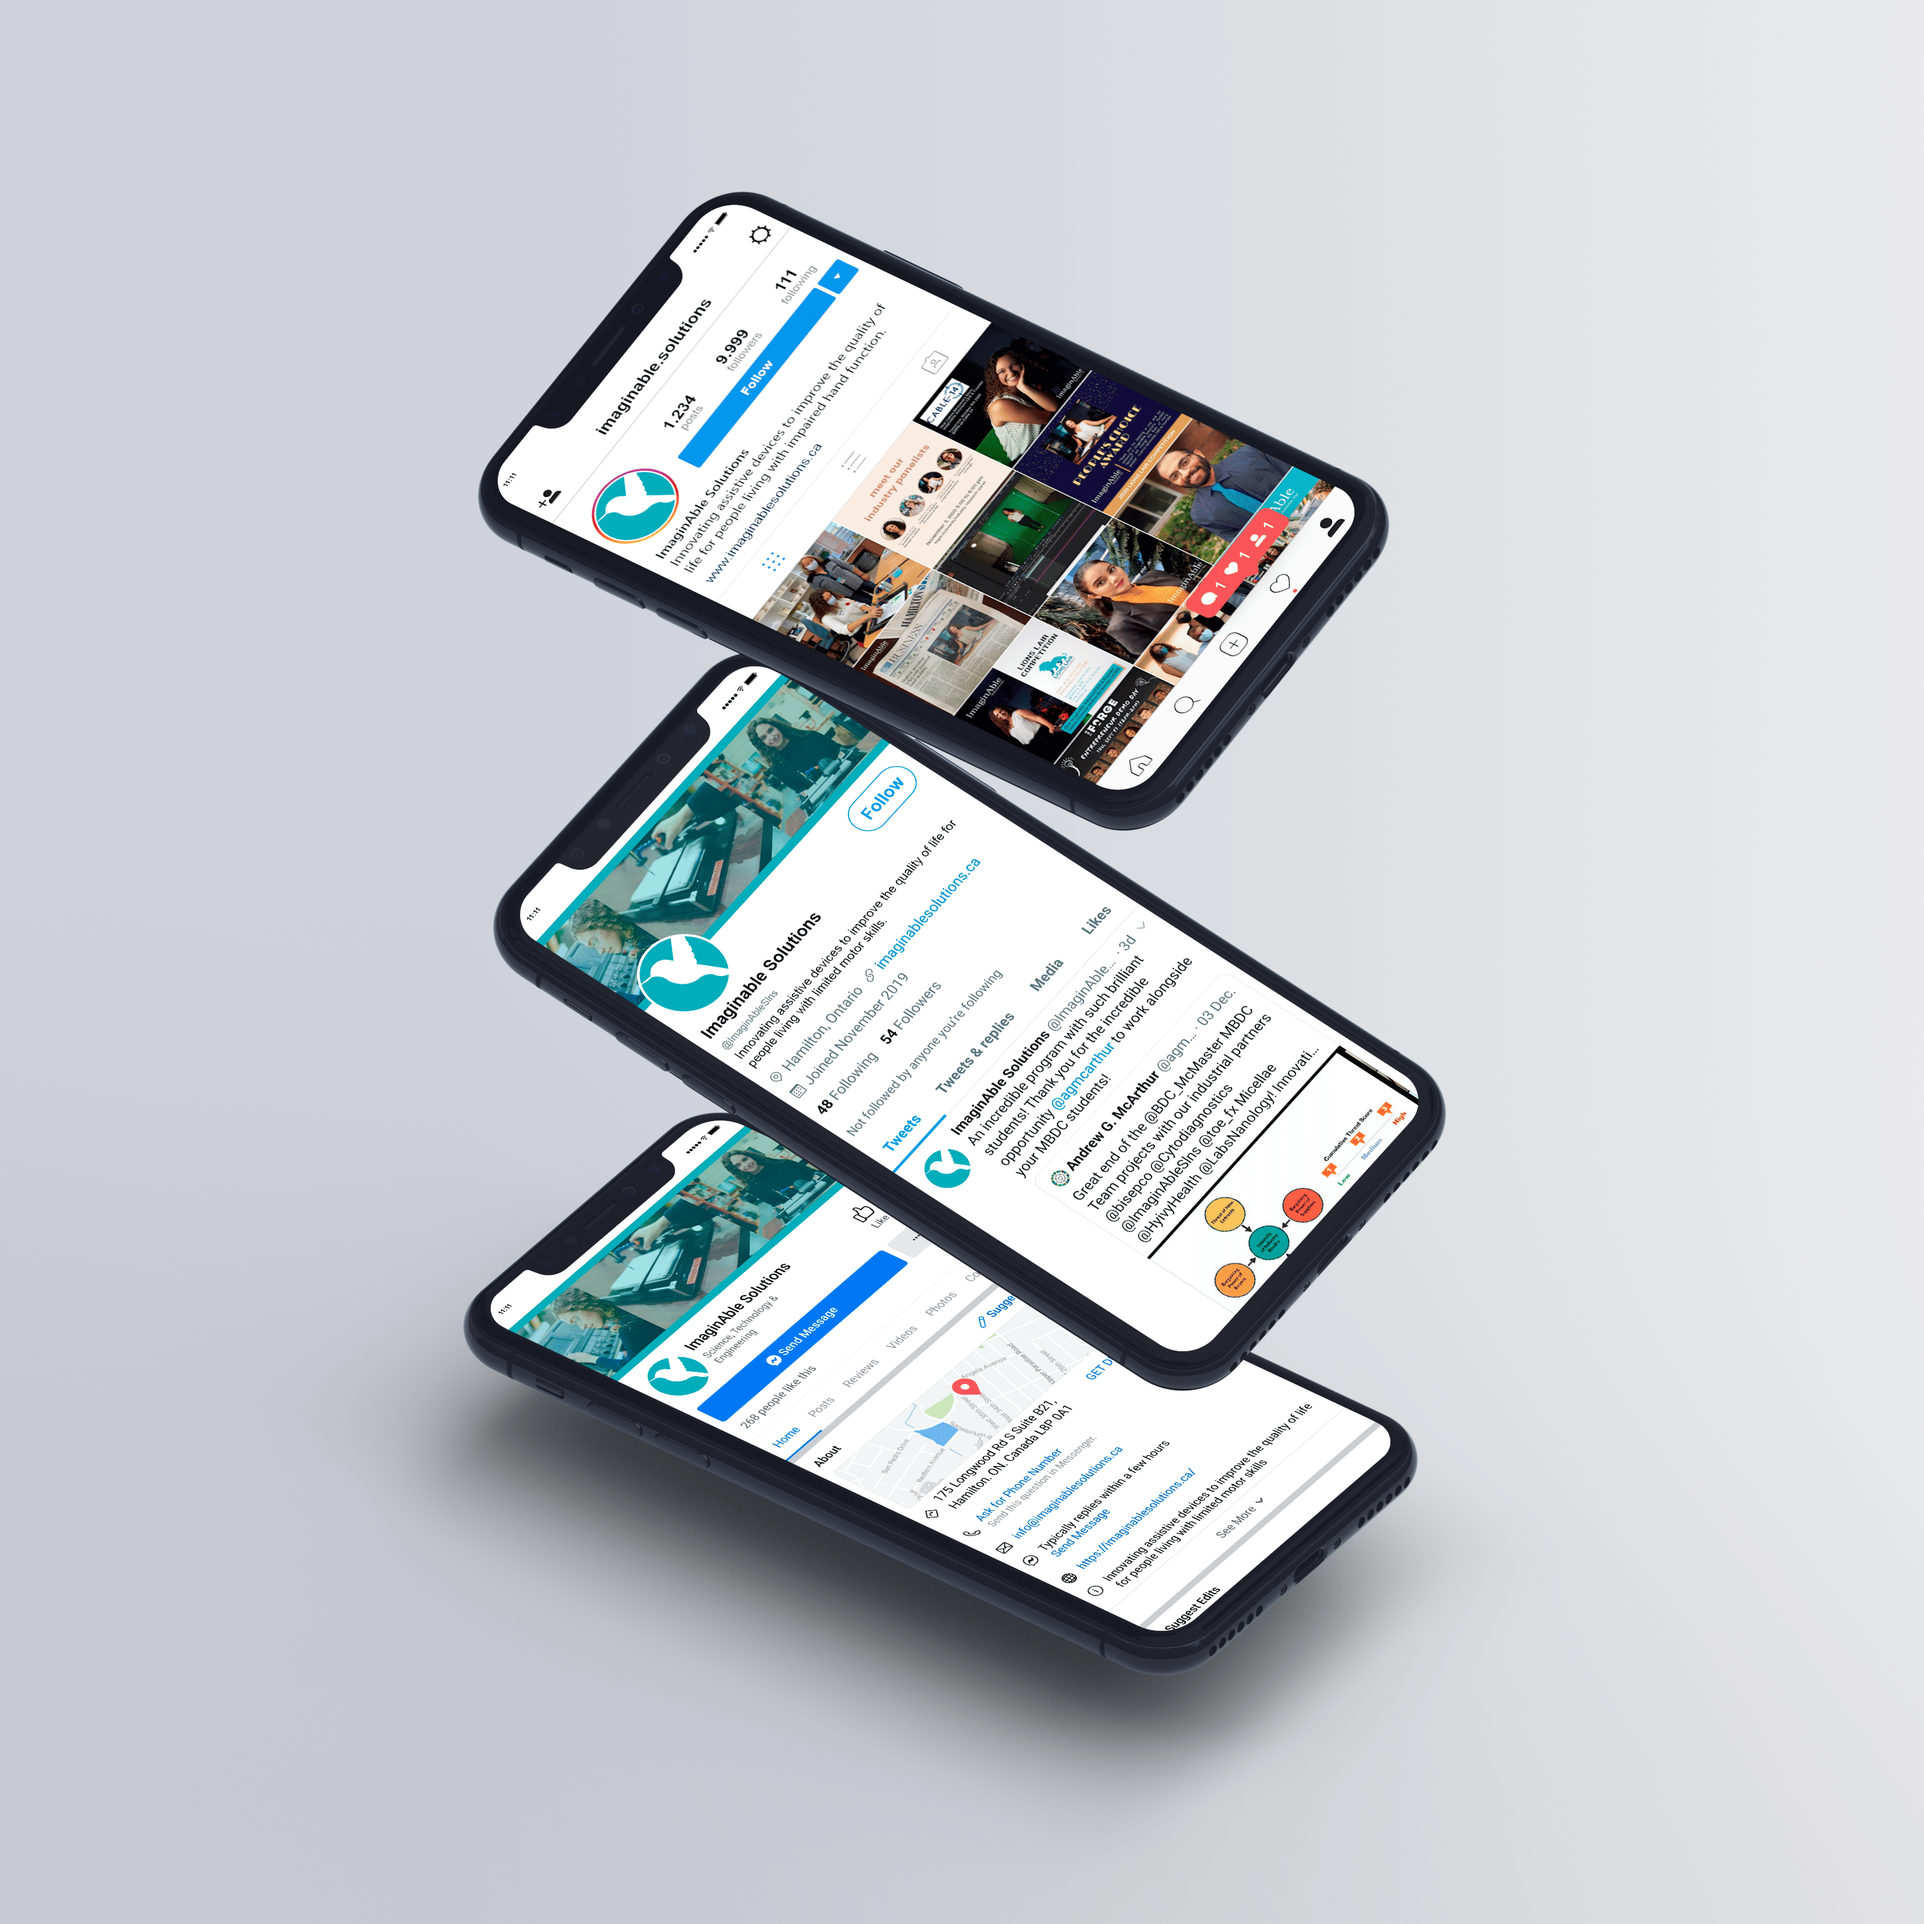
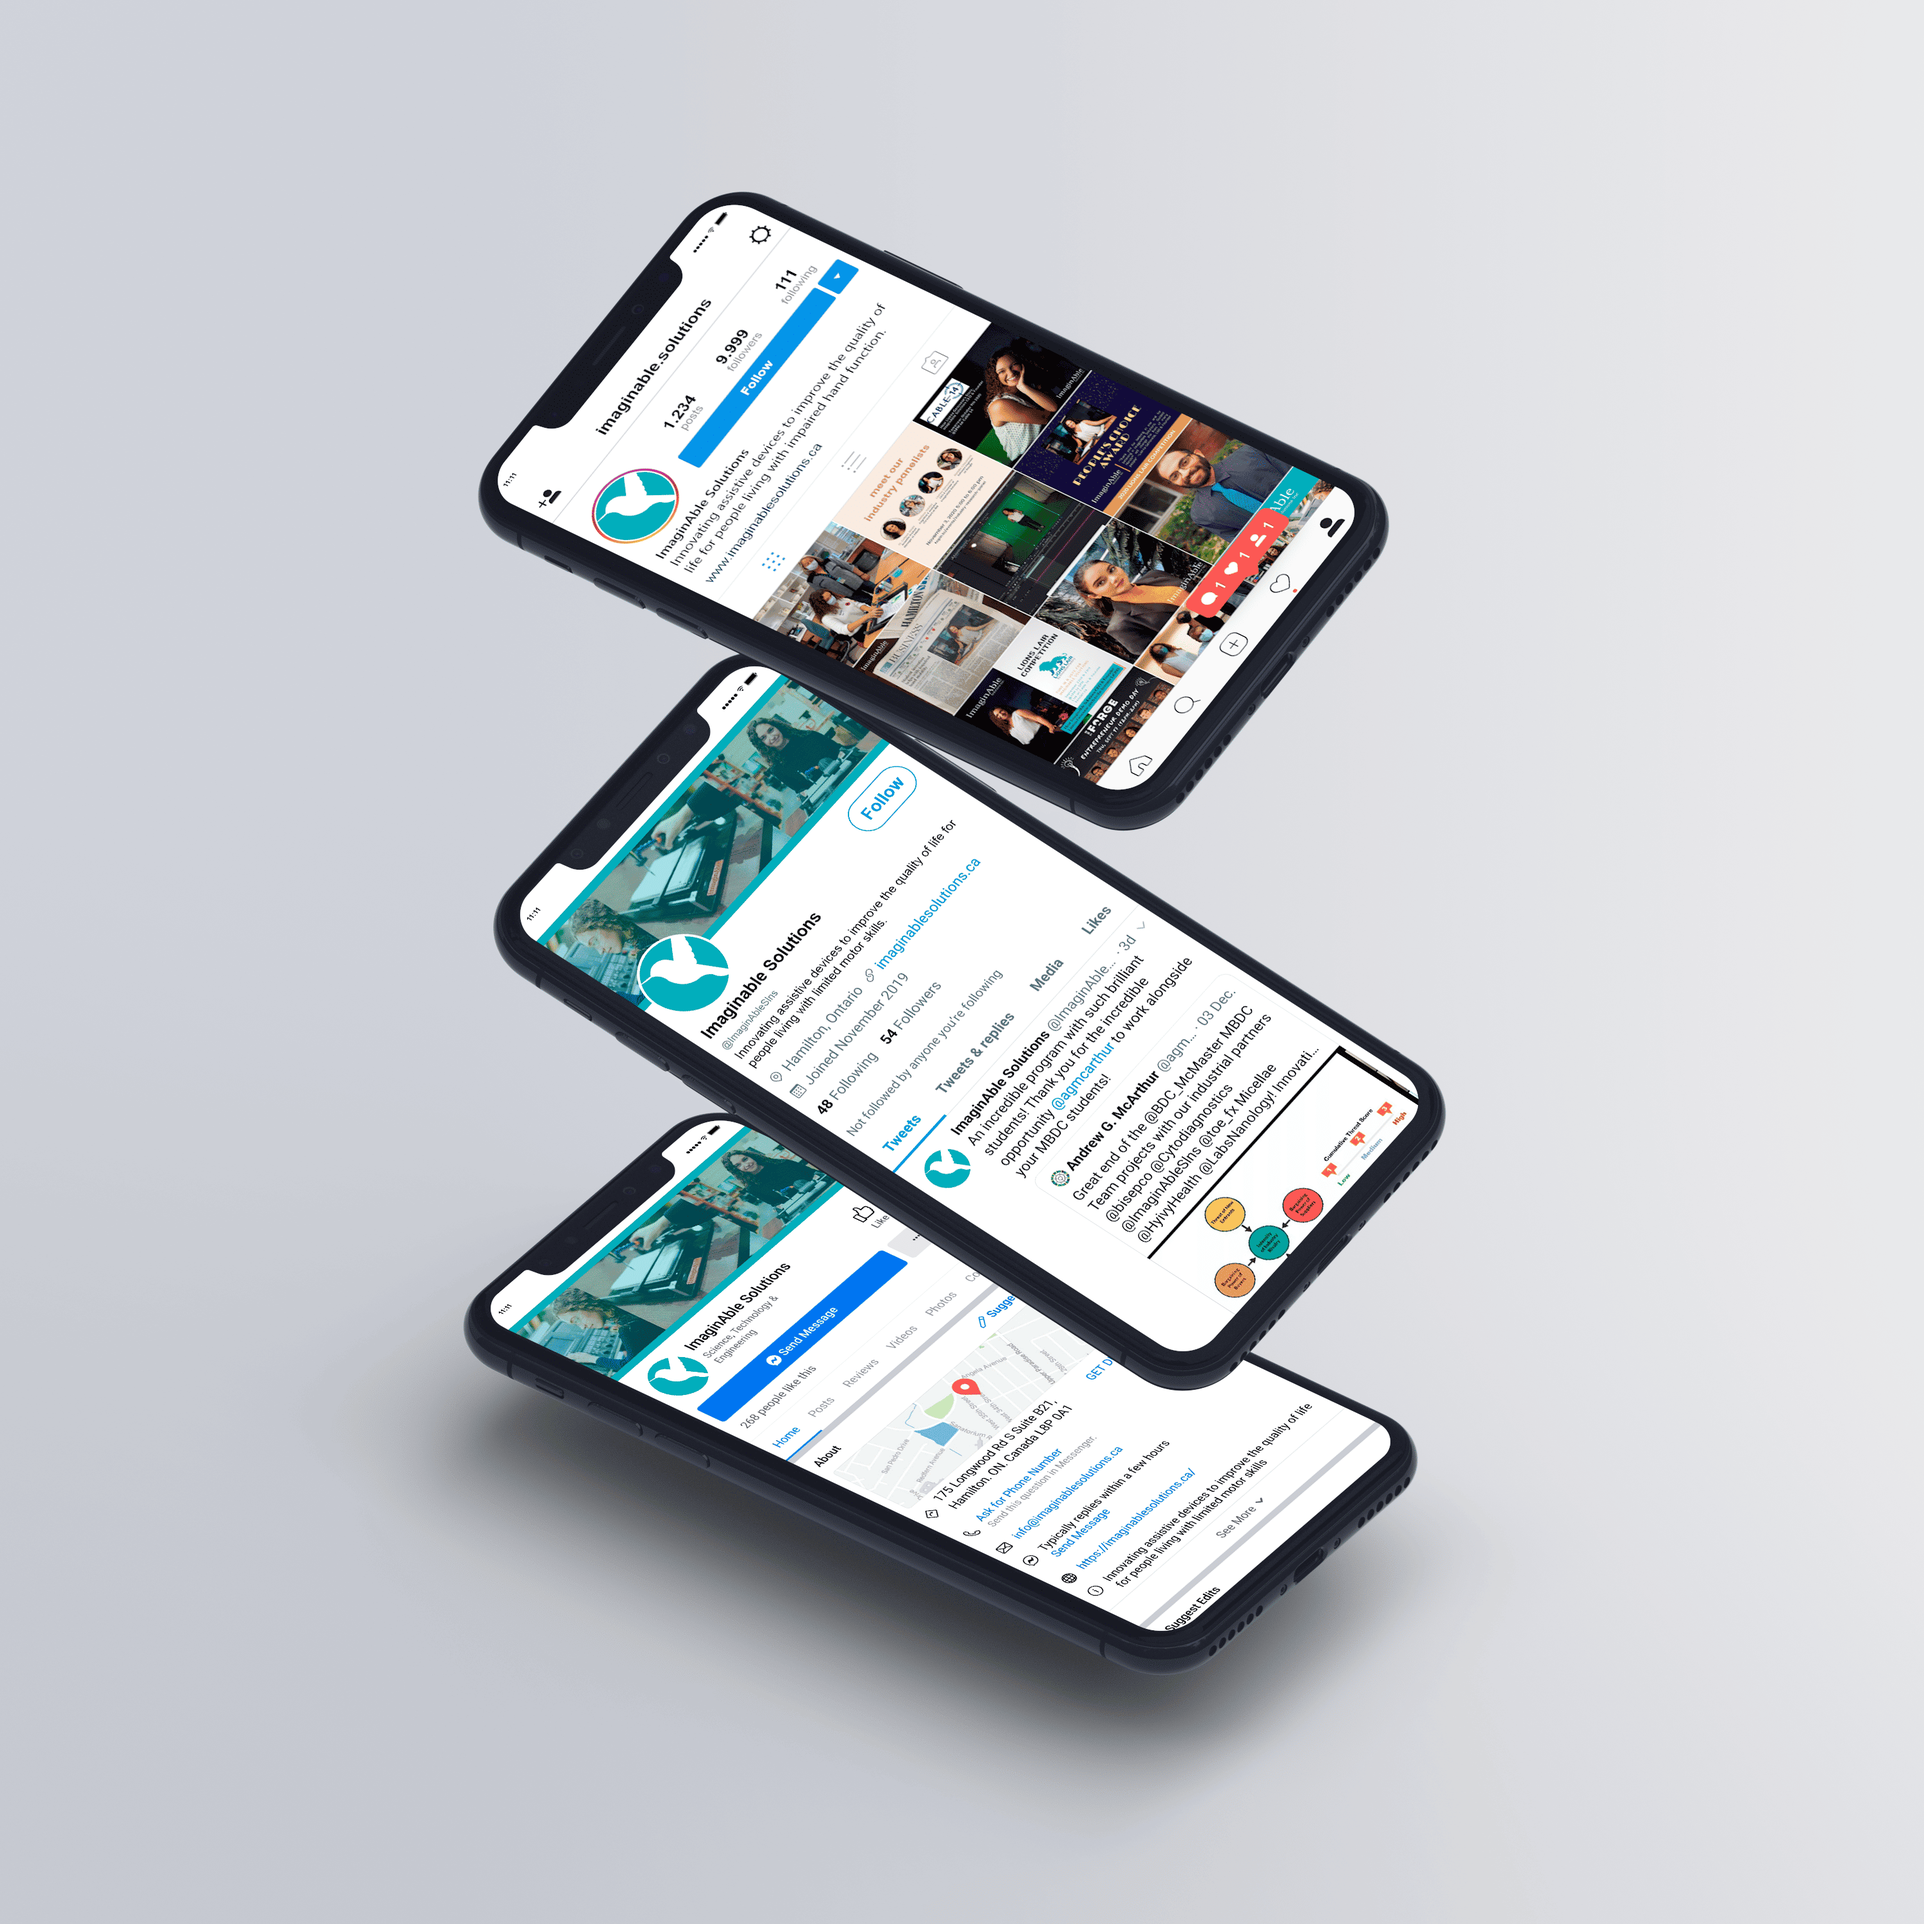
Compressed assets for faster loading

diff --git a/public/index.html b/public/index.html
@@ -13,8 +13,8 @@
     <meta property="og:image" content="logo.png">
 
     <!-- Favicon -->
-    <link rel="icon" type="image/png" href="./favicon/favicon.png?v=2" />
-    <link rel="icon" type="image/svg+xml" href="./favicon/favicon.svg?v=2" />
+    <link rel="icon" type="image/png" href="./favicon/favicon.png" />
+    <link rel="icon" type="image/svg+xml" href="./favicon/favicon.svg" />
     <meta name="theme-color" content="#FFFFFF" />
     <title>Danial Endrawes</title>
   </head>
